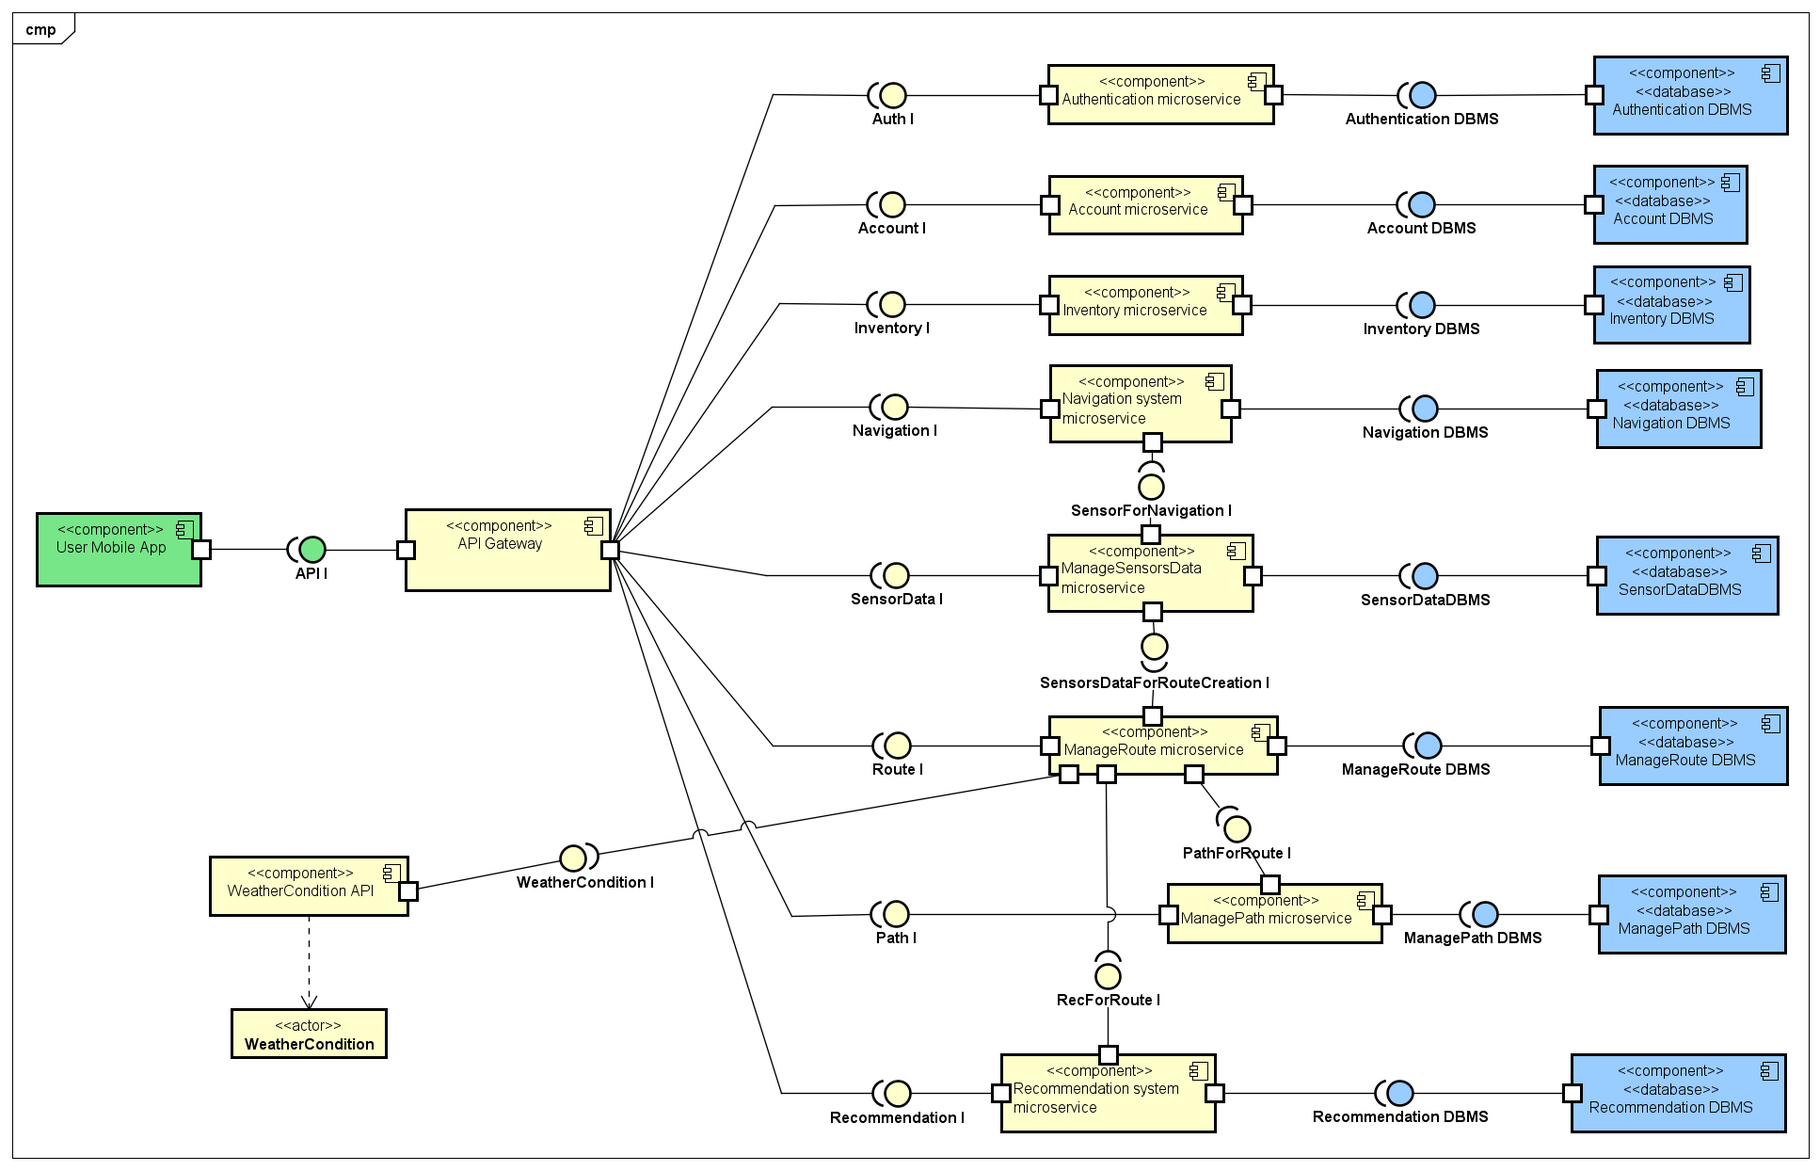
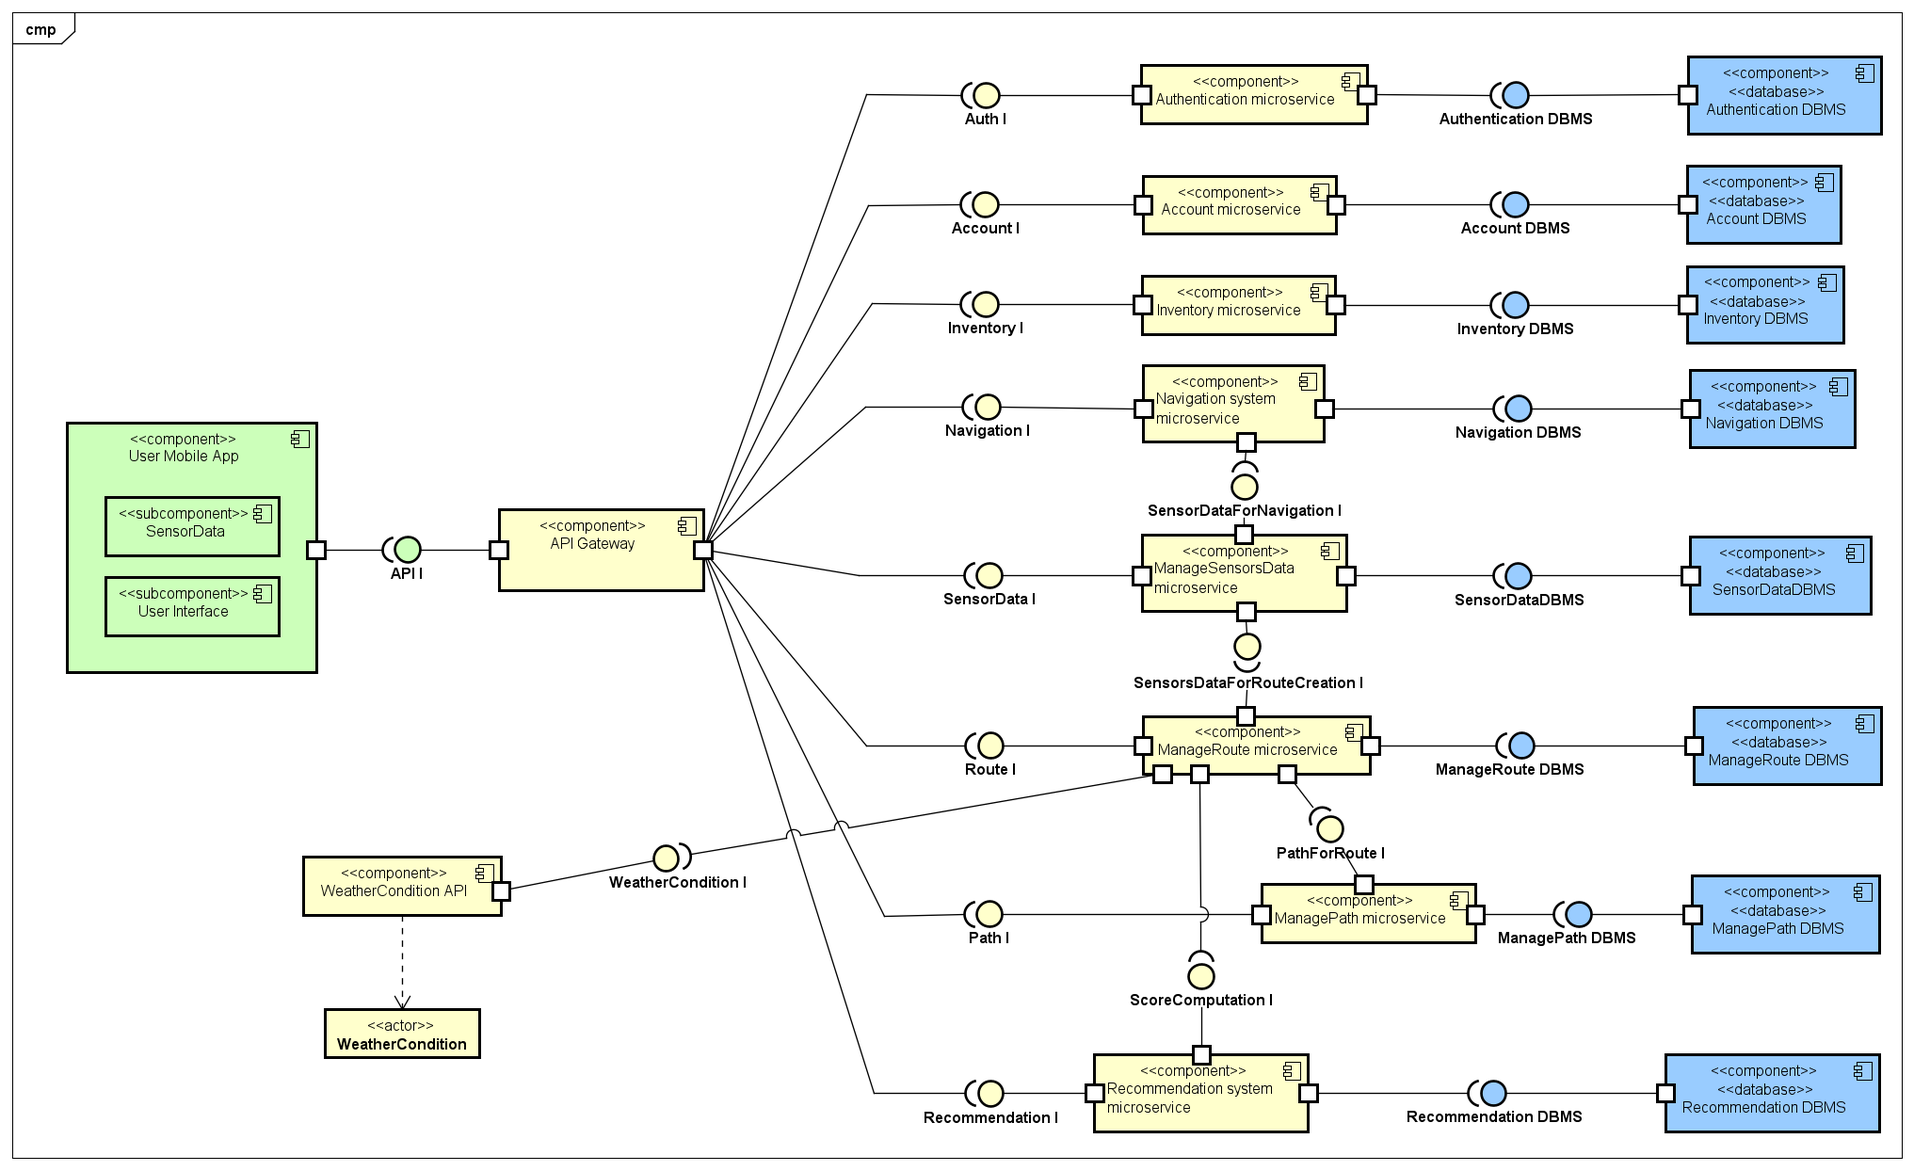
section 5.3 and minor fix

diff --git a/DD/Files/implementation.tex b/DD/Files/implementation.tex
@@ -5,14 +5,87 @@ The implementation plan follows a modular approach, dividing the application int
 For each functionality, the implementation process starts from the microservices components as they define the core business logic, manage data and expose the APIs used by the frontend. Developing the backend first reduces integration problems, stabilizes service interfaces and allows early validation of architectural decisions.\\[5pt]
 Subsequently, the related frontend is developed and its component is responsible for user interaction and interacts with the backend through RESTful APIs using a request/response communication model. \\[5pt]
 This approach is repeated for each functionality and ensures a separation between presentation and business logic. \\[5pt]
-The last phase of the implementation consists of the integration of external services, which interact with the application through interfaces. This step is performed after the core components are stable in order to limit integration risks and simplify debugging.\\[5pt]
+Moreover, the DBMS, the sensor data from the mobile device and the external service WeatherCondition API are mocked during testing, because it is assumed that they work correctly, providing requested information.\\[5pt]
 The modular structure of the implementation allows the individual components to be tested in isolation before the integration with the complete system.
 \subsection{Component integration and testing}
-The BBP platform components are integrated and tested using a hybrid approach combining bottom-up and thread strategies. \\[5pt]
-The bottom-up strategy is applied to core backend components to decide integration order. Starting from the loosely coupled microservices, additional components are progressively integrated until the entire software is completed.\\[5pt]
-Individual backend components, such as microservices, are tested in isolation with unit test to ensure that their business logic, data models, and service interfaces work correctly. After that, components are progressively integrated, performing integration tests at each step to verify correct interaction and to maintain system stability.\\[5pt]
-In parallel, thread strategy is applied by defining functional flows that span all architectural tiers. Each thread is tested end-to-end, ensuring that interactions between components at different layers operate correctly.\\[5pt]
-This combined approach improves testing coverage, supports incremental delivery of functionalities and reduces the risk of errors propagation and allows their early identification.\\
+The BBP platform components are integrated and tested using a bottom-up strategy. \\[5pt]
+The bottom-up strategy is applied to all components to decide integration order. Starting from the loosely coupled microservices, additional components are progressively integrated until the entire software is completed.\\[5pt]
+Individual backend components, such as microservices, are tested in isolation with unit test to ensure that their inner sub-components work correctly. After that, components are progressively integrated, performing integration tests at each step to verify correct interaction and to maintain system stability.\\[5pt]
+Finally, small sections of the UI are integrated progressively and each functionality is tested end-to-end, ensuring that interactions between components at different layers operate correctly.\\[5pt]
+This approach improves testing coverage, supports incremental delivery of functionalities and reduces the risk of errors propagation and allows their early identification.
+\begin{enumerate}
+    \item \textbf{Authentication integration}\\
+    The first functionality that has to be tested is the authentication, in particular the features that are related to the login, sign-up and the access as a guest. 
+    This component is tested first because it largely independent from other components, making it easier to integrate and verify before testing other services.\\
+    \begin{figure}[H]
+    \centering
+    \includegraphics[width=0.15\textwidth]{Images/PackageDiagrams/1_Authentication.png}
+    \caption{\label{fig:metamodel2}Authentication integration}
+    \end{figure}
+    \item \textbf{Account management integration}\\
+    The Account management includes features such as editing account, deleting account and logout. The component integrated in this step is the \textit{Account microservice}.\\
+    \begin{figure}[H]
+    \centering
+    \includegraphics[width=0.35\textwidth]{Images/PackageDiagrams/2_Account Management.png}
+    \caption{\label{fig:metamodel2}Account management integration}
+    \end{figure}
+    \item \textbf{Sensors Data Management integration}\\
+    This functionality needs to be included and tested in this preliminary step because it will be used inside two other microservices in the next steps. It concerns the retrieving data from the mobile device's sensors and the component integrated is the \textit{ManageSensorData microservice}.\\
+    \begin{figure}[H]
+    \centering
+    \includegraphics[width=0.6\textwidth]{Images/PackageDiagrams/3_Sensors Data Management.png}
+    \caption{\label{fig:metamodel2}Sensors Data Management integration}
+    \end{figure}
+    \item \textbf{Route and Path Management integration}\\
+    This two macro-areas of the software are included and tested together because they are strictly related. The features integrated are the route creation, visualization, deletion and publication while considering the path it is possible to create, delete and publish a path as automatic operation of the system and the visualization of a path for the user. The components integrated are \textit{ManagePath microservice} and \textit{ManageRoute microservice} that is linked to the \textit{ManageSensorsData microservice}. Moreover, in \textit{ManagePath microservice} an external library is used for the map implementation. \\
+    \begin{figure}[H]
+    \centering
+    \includegraphics[width=\textwidth]{Images/PackageDiagrams/4_Route and Path Management.png}
+    \caption{\label{fig:metamodel2}Route and Path Management integration}
+    \end{figure}
+    \item \textbf{Inventory Management integration}\\
+    This functionality provides the access to the inventory in order to visualize, order and filter own routes. The component integrated is the \textit{Inventory microservice}.\\
+    \begin{figure}[H]
+    \centering
+    \includegraphics[width=\textwidth]{Images/PackageDiagrams/5_Inventory Management.png}
+    \caption{\label{fig:metamodel2}Inventory Management integration}
+    \end{figure}
+    \item \textbf{Recommendation System integration}\\
+    This functionality of the software provides multiple features such as searching for a path giving start and end points and all that concerns the computation of status and score of a path. The component integrated is the \textit{RecommendationSystem microservice}.\\
+    \begin{figure}[H]
+    \centering
+    \includegraphics[width=\textwidth]{Images/PackageDiagrams/6_Recommendation System.png}
+    \caption{\label{fig:metamodel2}Recommendation System integration}
+    \end{figure}
+    \item \textbf{Navigation System integration}\\
+    The Navigation System provides all the features needed to follow a path through a map, implemented with an external library. The component integrated is the \textit{NavigationSystem microservice}.\\
+    \begin{figure}[H]
+    \centering
+    \includegraphics[width=\textwidth]{Images/PackageDiagrams/7_Navigation System.png}
+    \caption{\label{fig:metamodel2}Navigation System integration}
+    \end{figure}
+    \item \textbf{API Gateway integration}\\
+    At this point the \textit{API Gateway} component is integrated, replacing all the links to the drivers. Indeed, through the \textit{API Gateway} is possible to test all the components directly through the endpoints, also testing the interaction between this two architectural backend tiers.\\
+    \begin{figure}[H]
+    \centering
+    \includegraphics[width=\textwidth]{Images/PackageDiagrams/8_API Gateway integration.png}
+    \caption{\label{fig:metamodel2}API Gateway integration}
+    \end{figure}
+    \item \textbf{User Mobile App integration}\\
+    Finally, the last driver is replaced by the \textit{User Mobile App} that represents the UI of the software. This integration enables end-to-end testing of interactions across all tiers of the architecture.\\
+    \begin{figure}[H]
+    \centering
+    \includegraphics[width=\textwidth]{Images/PackageDiagrams/9_User Mobile App Integration.png}
+    \caption{\label{fig:metamodel2}User Mobile App integration}
+    \end{figure}
+\end{enumerate}
+\textbf{Microservice Testing}\\
+As stated before, each microservice is tested in isolation with unit tests to ensure that their inner sub-components work correctly. Below a representation of the tested sub-components with their relationships.
+\begin{figure}[H]
+\centering
+\includegraphics[width=\textwidth]{Images/PackageDiagrams/package microservice.png}
+\caption{\label{fig:metamodel2}Generic microservice package}
+\end{figure}
 \subsection{System testing}
 System testing is a crucial phase of the development in which the fully integrated system is evaluated to verify compliance with both functional and non-functional requirements. This phase is conducted in a testing environment that closely resembles the production environment, in order to assess the system’s behavior under realistic operating conditions and reduce the risk of failures after deployment.
 The system testing is composed by:

diff --git a/DD/Files/architectural.tex b/DD/Files/architectural.tex
@@ -15,26 +15,29 @@ The four tiers composing the architecture are the following:
 \end{figure}
 \noindent{In particular, the Application Tier is designed according to a microservices-based architectural approach, where system functionalities are decomposed into independent and loosely coupled services. 
 Although, for simplicity, the Application Tier and the Data Tier are represented in an abstract version as single components in the high-level architecture, in the actual implementation each microservice manages its own dedicated data store, in accordance with the database-per-service pattern. The internal structure and interactions of the individual services are described in detail in the following sections.}
+\newpage
 \subsection{Component view}
 The platform consists of several components grouped into two main categories: backend and frontend components. Notice that the backend comprehends Web Server and Application Logic tiers and it is organized according to a microservices architecture. Moreover, each component of the software is responsible for providing a specific service and implements one or more system functionalities.\\[8pt]
 \textbf{Backend components}
 \begin{itemize}
-    \item \textit{Authentication service}
+    \item \textit{Authentication microservice}
     \\ This service lets the users to perform sign up and login in the application. If a new user sign up, the service checks the email does not exist in the system or if an user is logging the system checks that the credentials are corrects.
-    \item \textit{Account service}
+    \item \textit{Account microservice}
     \\ This service stores and updates the cyclist profile information. It permits the cyclist edit his username, email, password and photos.
-    \item \textit{Inventory service}
+    \item \textit{Inventory microservice}
     \\ This service saved and shows cyclist's personal routes and paths. It supports filters by date, distance and score . When the cyclist open a path it returns the list of all the routes of that path and details
-    \item \textit{ManagePath service}
+    \item \textit{ManagePath microservice}
     \\This service manages paths in the BPP . It creates automatically a new path when it is created a route on a non existing path. It manages the visibility of the path (public or private) and eventually the deletion of the path.
-    \item \textit{ManageRoute service}
+    \item \textit{ManageRoute microservice}
     \\This service manages routes, a single ride on a path. It lets user create a route either in manual mode or automatic mode. It also enriches the route with other detail and supports the operation of publish, unpublish and delete.
-    \item \textit{Navigation system} 
+    \item \textit{Navigation system microservice} 
     \\ this service implements a navigation support for the cyclist. When a cyclist selects a path the navigation system guides the cyclist along the streets of that path until the end point is reached.
-    \item \textit{Recommendation system} 
+    \item \textit{Recommendation system microservice} 
     \\ This service supports the user search of a path. From a start and an end point received in input it recommends a list of path ranked by score. Moreover, the service merges different information from several routes on the same path keeping the path status updated.
-    \item \textit{ManageSensorsData service}
+    \item \textit{ManageSensorsData microservice}
     \\This service collects data from the mobile sensors (GPS,accelerometer,gyroscope) during the ride of the cyclist. It enriches the route with these information.
+    \item \textit{SensorData}
+    \\This is a subcomponent of the \textit{User Mobile App} component and cooperates with \textit{ManageSensorsData microservice}, periodically sending data about device sensors.
     \item \textit{API Gateway}
     \\ This is the entry point for each app request. It forwards each request to the right microservices.    
     \item \textit{DBMSs}
@@ -43,7 +46,7 @@ The platform consists of several components grouped into two main categories: ba
 \textbf{Frontend components}
 \begin{itemize}
     \item \textit{User Interface}
-    \\ It is the app interface for users. It allows accessing all the features of BPP for the Cyclist and a smaller portion of them for the Guest. 
+    \\This is a subcomponent of the \textit{User Mobile App} component and represents the app interface for users. It allows accessing all the features of BPP for the Cyclist and a smaller portion of them for the Guest. 
 \end{itemize}
 \textbf{External components}
 \begin{itemize}
@@ -55,12 +58,14 @@ The platform consists of several components grouped into two main categories: ba
 \includegraphics[width=\textwidth]{Images/Component Diagram.png}
 \caption{\label{fig:metamodel2}Component diagram}
 \end{figure}
-Additionally, it is useful to provide a more in-depth description of a generic microservice component. It is based on the \textbf{Controller-Service-Repository pattern}, which adds modularity and promotes separation of concerns within the component. This three sub-components operate as follow:
+Additionally, it is useful to provide a more in-depth description of a generic microservice component. It is based on the \textbf{Controller-Service-Repository pattern}, which adds modularity and promotes separation of concerns within the component. The sub-components of a microservice operate as follow::
 \begin{itemize}
 \setlength{\itemsep}{0pt}
     \item The \textit{Controller} is responsible for exposing the component functionalities and it is based on the RESTful architectural style.
     \item The \textit{Service} acts as intermediary between the two other components of the microservice and contains all the business logic.  
     \item The \textit{Repository} is responsible for querying the DBMS to retrieve and persist data.
+    \item The \textit{Model} is used to map a database table into an object.
+    \item The \textit{DTO} is the object used to transfer data during RESTful request/response. 
 \end{itemize}
 \begin{figure}[H]
 \centering

diff --git a/DD/Files/traceability.tex b/DD/Files/traceability.tex
@@ -36,13 +36,13 @@
     \item \textbf{R21:} The platform computes a score for each path based on path's status and average speed.
 \end{itemize}
 \newpage
-
+\subsection{Requirements Traceability Matrix}
 \begin{table}[h]
 \centering
 \small
 \setlength{\tabcolsep}{1pt}        % riduce lo spazio orizzontale tra colonne
 \renewcommand{\arraystretch}{1.4} % riduce lo spazio verticale tra righe
-\begin{tabular}{|>{\centering\arraybackslash}m{1cm}|*{13}{>{\centering\arraybackslash}p{1cm}|}}
+\begin{tabular}{|>{\centering\arraybackslash}m{1cm}|*{14}{>{\centering\arraybackslash}p{1cm}|}}
 
 \hline
    & \rotatebox{90}{Authentication service}
@@ -54,33 +54,37 @@
    & \rotatebox{90}{Recommendation system}
    & \rotatebox{90}{ManageSensorsData service }
    & \rotatebox{90}{Weather conditions}
+   & \rotatebox{90}{SensorData}
    & \rotatebox{90}{API Gateway}
    & \rotatebox{90}{DBMSs}
-   & \rotatebox{90}{User Mobile App} \\ 
+   & \rotatebox{90}{User Interface} \\ 
 \hline
-R1  & X & & & & & & & & & X & X & X \\ \hline
-R2  & X & & & & & & & & & X & X & X \\ \hline
-R3  & X & & & & & & & & & X & X & X \\ \hline
-R4  & & X & & & & & & & & X & X & X \\ \hline
-R5  & & X & & & & & & & & X & X & X \\ \hline
-R6  & & & & X & X & & & & & X & X & X \\ \hline
-R7  & & & & & X & & & X & & X & & X \\ \hline
-R8  & & & & X & X & & & & & X & X & X \\ \hline
-R9  & & & & & & & & X & & X & X & \\ \hline
-R10 & & & & & & & & & X & X & X & \\ \hline
-R11 & & & & & X & & & & & X & X & X \\ \hline
-R12 & & & & X & X & & X & & & X & X & X \\ \hline
-R13 & & & & X & X & & X & & & X & X & X \\ \hline
-R14 & & & X & & & & & & & X & X & X \\ \hline
-R15 & & & & X & X & & & & & X & X & X \\ \hline
-R16 & & & & X & X & & & & & X & X & X \\ \hline
-R17 & & & & & & & X & & & X & X & X \\ \hline
-R18 & & & & & & & X & & & X & X & X \\ \hline
-R19 & & & & & & X & & X & & X & X & X \\ \hline
-R20 & & & & & & & X & & & X & X & \\ \hline
-R21 & & & & & & & X & & & X & X & \\ \hline
+R1  & X & & & & & & & & & & X & X & X \\ \hline
+R2  & X & & & & & & & & & & X & X & X \\ \hline
+R3  & X & & & & & & & & & & X & X & X \\ \hline
+R4  & & X & & & & & & & & & X & X & X \\ \hline
+R5  & & X & & & & & & & & & X & X & X \\ \hline
+R6  & & & & X & X & & & & & & X & X & X \\ \hline
+R7  & & & & & X & & & X & & X & X & X & X \\ \hline
+R8  & & & & X & X & & & & & & X & X & X \\ \hline
+R9  & & & & & & & & X & & X & X & X & \\ \hline
+R10 & & & & & & & & & X & & X & X & \\ \hline
+R11 & & & & & X & & & & & & X & X & X \\ \hline
+R12 & & & & X & X & & X & & & & X & X & X \\ \hline
+R13 & & & & X & X & & X & & & & X & X & X \\ \hline
+R14 & & & X & & & & & & & & X & X & X \\ \hline
+R15 & & & & X & X & & & & & & X & X & X \\ \hline
+R16 & & & & X & X & & & & & & X & X & X \\ \hline
+R17 & & & & & & & X & & & & X & X & X \\ \hline
+R18 & & & & & & & X & & & & X & X & X \\ \hline
+R19 & & & & & & X & & X & & X & X & X & X \\ \hline
+R20 & & & & & & & X & & & & X & X & \\ \hline
+R21 & & & & & & & X & & & & X & X & \\ \hline
 \end{tabular}
 \caption{Requirements Traceability Matrix}
 \label{tab:rtm}
 \end{table}
+
+
+
 

diff --git a/DD/Files/introduction.tex b/DD/Files/introduction.tex
@@ -6,8 +6,7 @@ The design of Best Bike Paths (BBP) focuses on defining the system’s structure
 The system includes user management features, allowing registration, authentication, and profile modification for those who choose to create an account. It allows route creation through both manual creation and automatic tracking via GPS and mobile device sensors, storing relevant statistics such as distance, time, and average speed. Routes are enriched with additional information, including environmental and meteorological data collected from external services.
 BBP also incorporates a social component, enabling users to publish routes, explore public paths, and contribute to community ratings. Additionally, the system provides search and navigation functionality, suggesting paths based on quality scores, estimated travel time and overall status.
 The design covers the system’s four-tier architecture, detailing the presentation, web server, application logic and data layers, as well as the interactions between them that ensure modularity, scalability and distribution. 
-
-\subsection{Definitions, Acronyms}
+\subsection{Definitions, Acronyms, Abbreviations}
 \subsubsection{Definitions}
 \begin{itemize}
     \item \textbf{Guest:} The term refers to the unregistered user. More details are provided later in the document.
@@ -23,10 +22,18 @@ The design covers the system’s four-tier architecture, detailing the presentat
 \subsubsection{Acronyms}
 \begin{itemize}
     \item \textbf{BBP:} Best Bike Paths
+    \item \textbf{RASD:} Requirement Analysis and Specification Document
     \item \textbf{DD:} Design Document
     \item \textbf{UI:} User Interface
     \item \textbf{API:} Application Programming Interface
     \item \textbf{DBMS:} Database Management System
+    \item \textbf{DTO:} Data Transfer Object
+    
+\end{itemize}
+\subsubsection{Abbreviations}
+\begin{itemize}
+    \item \textbf{I:} Interface
+    \item \textbf{R:} Requirement
 \end{itemize}
 \subsection{Revision History}
 \subsection{Reference Documents}
